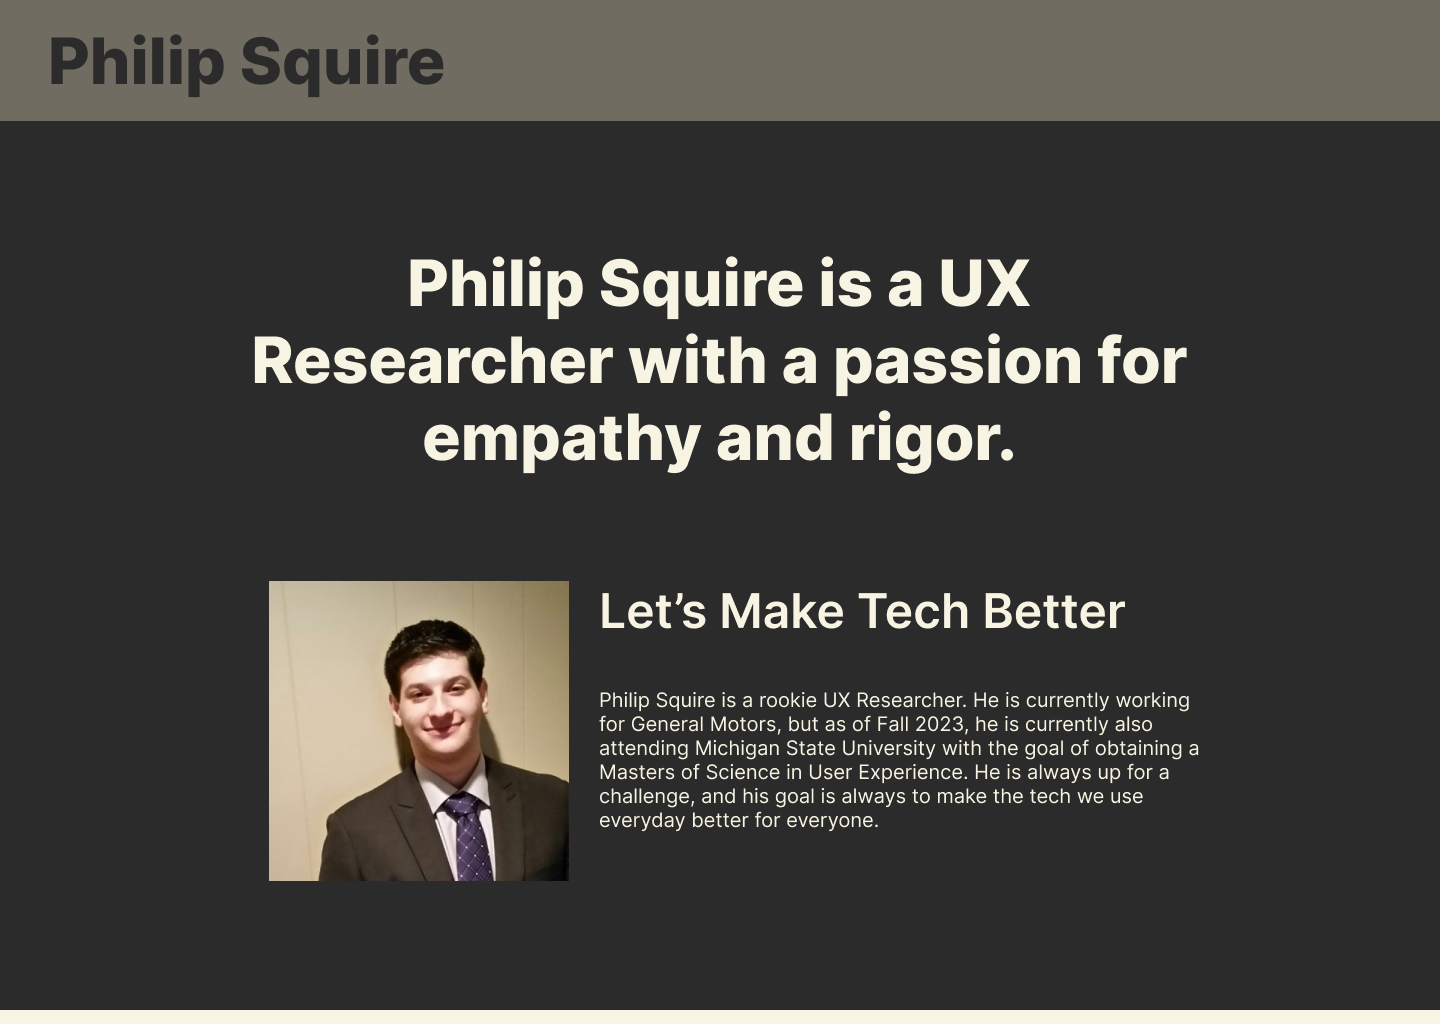
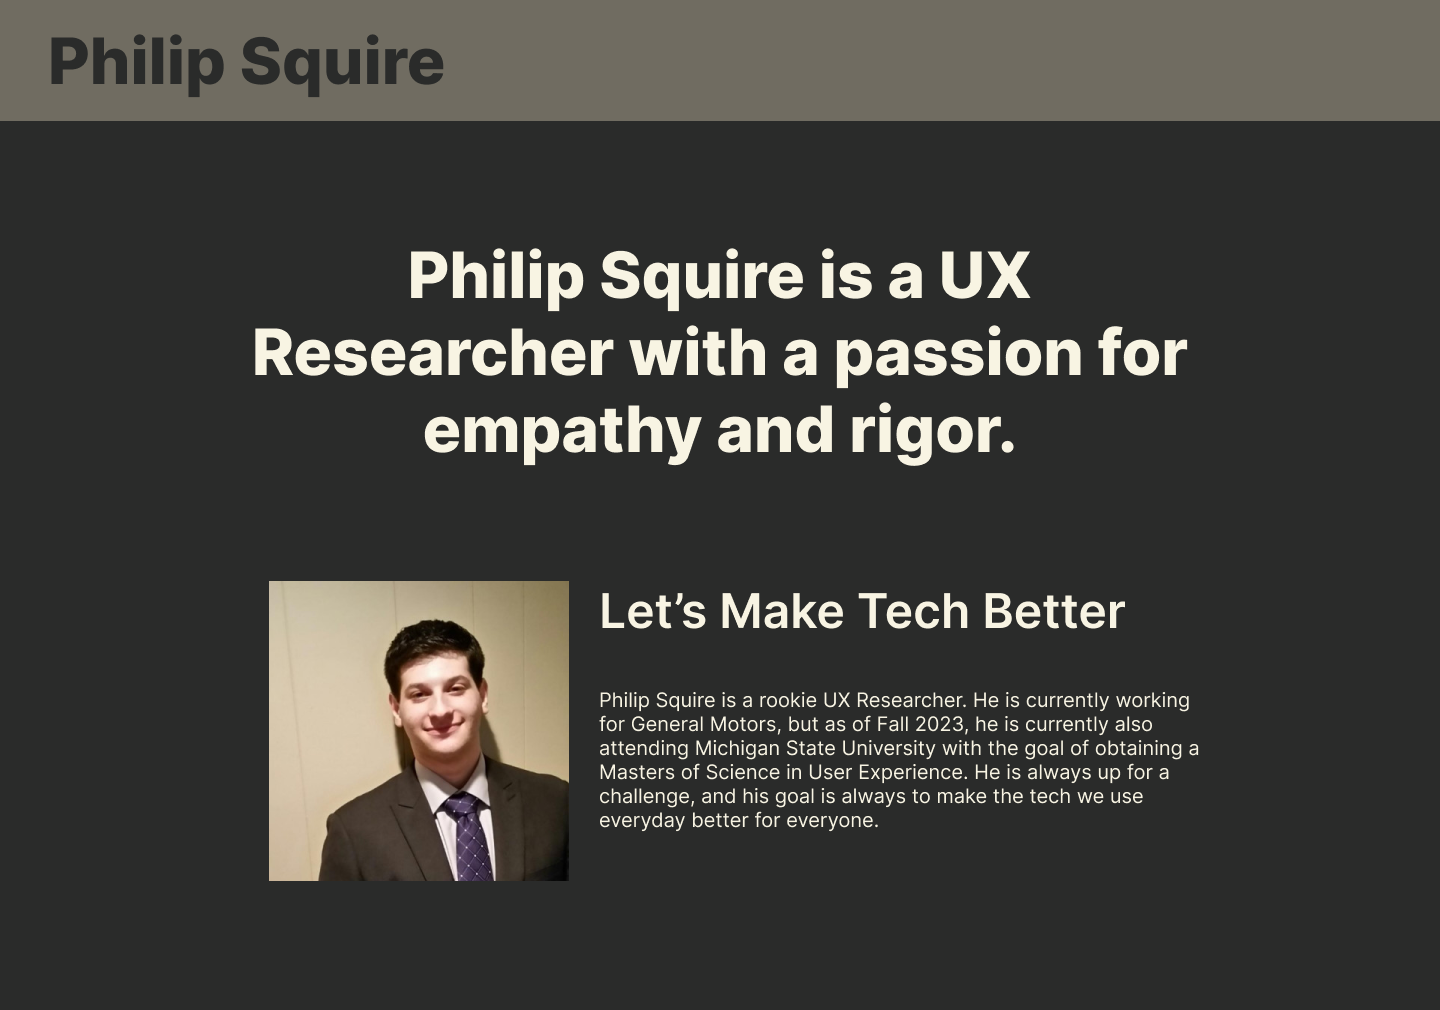
finished assignment

diff --git a/index.html b/index.html
@@ -9,13 +9,13 @@
   </head>
   <body>
     <h1>Philip Squire</h1>
-    <div>
-      <p>Philip Squire is a UX Researcher with a passion for empathy and rigor.</p>
-      <div>
+    <div class="content">
+      <p class="headline">Philip Squire is a UX Researcher with a passion for empathy and rigor.</p>
+      <div class="PhotoDescription">
         <img src="selfphoto.JPG" alt="Photograph of Philip Squire">
-        <div>
+        <div class = "Bio">
           <h2>Let's Make Tech Better</h2>
-          <p>Philip Squire is a rookie UX Researcher. He is currently working for General Motors, but as of Fall 2023, he is currently also attending Michigan State University with the goal of obtaining a Masters of Science in User Experience. He is always up for a challenge, and his goal is always to make the tech we use everyday better for everyone.</p>
+          <p class = "Description"> Philip Squire is a rookie UX Researcher. He is currently working for General Motors, but as of Fall 2023, he is currently also attending Michigan State University with the goal of obtaining a Masters of Science in User Experience. He is always up for a challenge, and his goal is always to make the tech we use everyday better for everyone.</p>
         </div>
       </div>
     </div>

diff --git a/screen.css b/screen.css
@@ -1,4 +1,52 @@
 /* Add screen styles below */
 body{
+  background-color: #2A2B2A;
+  color: #F8F4E3;
+  padding: 0;
+  margin: 0;
+  padding-bottom: 50px;
+  font-family: Inter, Cambria, Cochin, Georgia, Times, 'Times New Roman', serif;
+}
+
+h1{
+  background-color: #706C61;
   color: #2A2B2A;
+  margin-top: 0;
+  padding: 10px;
+  font-size: 64px;
+}
+
+h2{
+  font-size: 43px;
+  font-weight: 500;
+}
+
+.content{
+  width: 900px;
+  margin: 0 auto;
+}
+
+.headline{
+  font-size: 64px;
+  text-align: center;
+  font-weight: bolder;
+}
+
+img{
+  height: 300px;
+  width: 300px;
+  padding-right: 30px;
+  margin-left: 50px;
+}
+
+.PhotoDescription{
+  display: flex;
+}
+
+.description{
+  font-size: 20px;
+}
+
+.Bio{
+  padding-right: 30px;
 }
